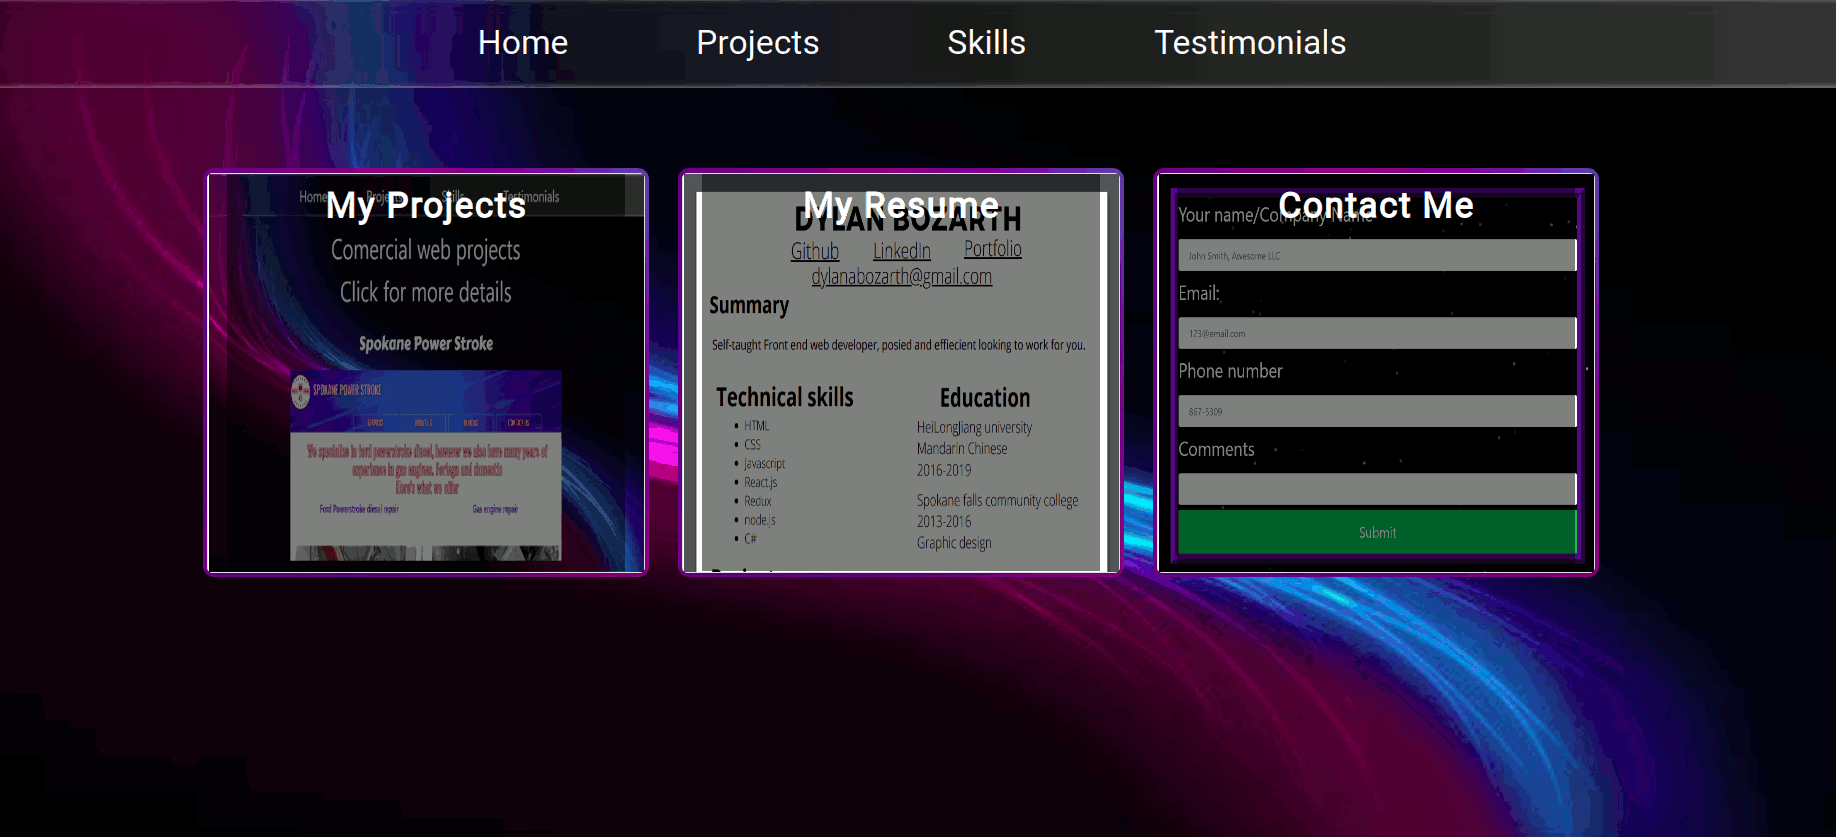
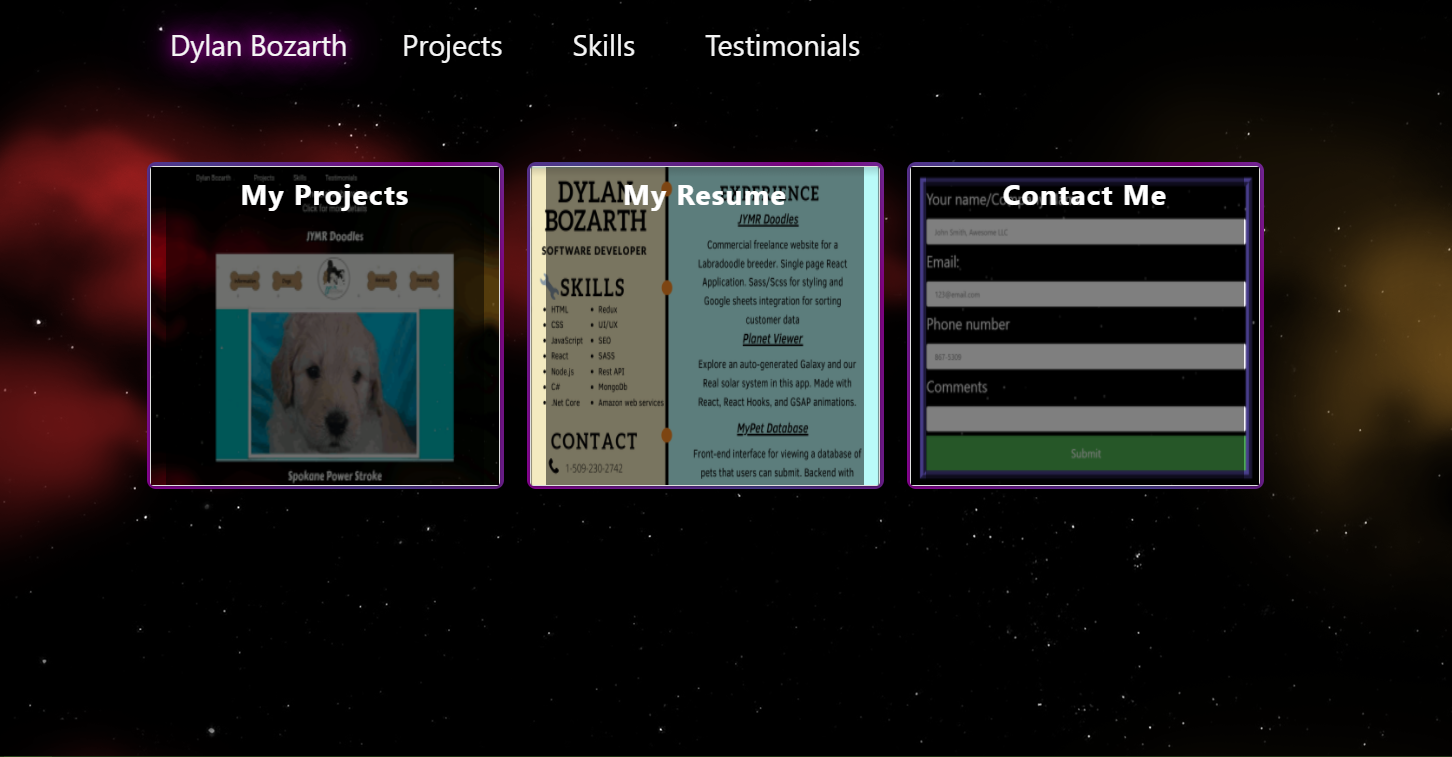
update images and resume

diff --git a/src/pages/projects.js b/src/pages/projects.js
@@ -46,35 +46,36 @@ class Projects extends Component {
           tag: "professional"
         },
         {
-          image: "./images/my_pet.png",
-          title: "My Pet ",
-          link: "/mypet",
-          tag: "professional"
-        },
-        {
-          image: "./images/dadabase.jpg",
-          title: "Dad joke database",
-          link: "/dadabase"
-
-        },
-        {
           image: "./images/solarsystem.png",
           title: "Solar System Viewer",
           link: "/solarsystem",
           tag: "personal"
         },
         {
-          image: "./images/bitcoin.png",
-          title: "CryptoTracker",
-          link: "/bitcoin",
-          tag: "personal"
+          image: "./images/my_pet.png",
+          title: "My Pet ",
+          link: "/mypet",
+          tag: "professional"
         },
+        
+        
+        
         {
 
           image: "./images/spokanepowerstroke.jpg",
           title: "Spokane Power Stroke",
           link: "/powerstroke",
           tag: "professional"
+        },{
+          image: "./images/pizza.jpeg",
+          title: "Create your own Pizza UI",
+          link: "/pizza",
+          tag: "personal"
+        },{
+          image: "./images/dadabase.jpg",
+          title: "Dad joke database",
+          link: "/dadabase"
+
         },
         {
           image: "./images/skyfitnessnew.jpg",
@@ -82,13 +83,13 @@ class Projects extends Component {
           link: "/skylimit",
           tag: "professional"
 
-        },
-        {
-          image: "./images/pizza.jpeg",
-          title: "Create your own Pizza UI",
-          link: "/pizza",
+        },{
+          image: "./images/bitcoin.png",
+          title: "CryptoTracker",
+          link: "/bitcoin",
           tag: "personal"
         },
+        
         {
           image: "./images/rest.jpeg",
           title: "REST API Example",

diff --git a/src/pages/homepage.js b/src/pages/homepage.js
@@ -61,7 +61,7 @@ function Homepage() {
           exit="out"
           >
             <a
-              href="https://drive.google.com/file/d/19ePQHZSe1xjfK_tiEHMz1nGQ5HcsFz1G/view?usp=sharing"
+              href="https://drive.google.com/file/d/1uUpgsKgXbvMPbeHdmIUkTsQ7WLT6NpnW/view?usp=sharing"
               target="_blank"
               rel="noopener noreferrer"
             >
